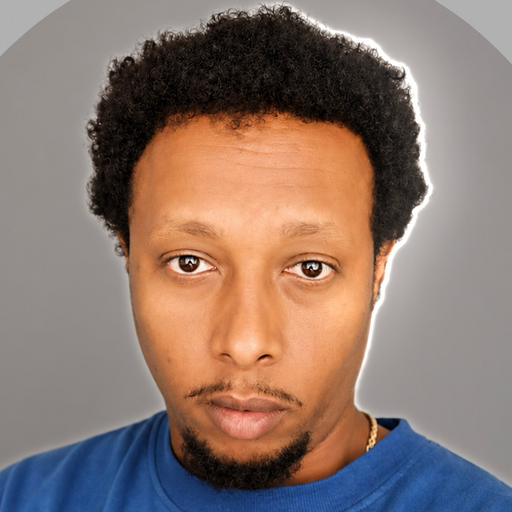
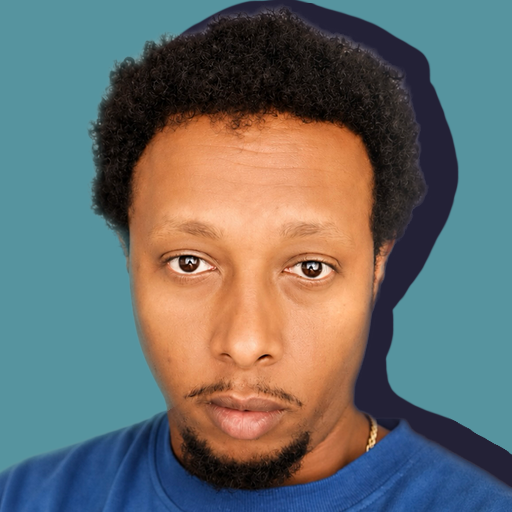
feat: updated profile photos

diff --git a/frontend/src/components/team-section.tsx b/frontend/src/components/team-section.tsx
@@ -1,10 +1,10 @@
 import type { StaticImageData } from "next/image";
 import dagim from "@/assets/profiles/dagim.png";
-import hannah from "@/assets/profiles/hannah.jpg";
+import hannah from "@/assets/profiles/hannah.png";
 import jana from "@/assets/profiles/jana.png";
-import jawad from "@/assets/profiles/jawad.jpg";
+import jawad from "@/assets/profiles/jawad.png";
 import marah from "@/assets/profiles/marah.png";
-import salem from "@/assets/profiles/salem.jpg";
+import salem from "@/assets/profiles/salem.png";
 import TeamProfile from "@/components/team-profile";
 import styles from "./team-section.module.css";
 

diff --git a/frontend/src/components/logo.tsx b/frontend/src/components/logo.tsx
@@ -5,7 +5,13 @@ import styles from "./logo.module.css";
 export function Logo() {
   return (
     <Link href="/" className={styles.title} aria-label="Flint — home">
-      <Image src="/logo.svg" alt="" className={styles.logo} />
+      <Image
+        width={48}
+        height={48}
+        src="/logo.svg"
+        alt=""
+        className={styles.logo}
+      />
       flint
     </Link>
   );
